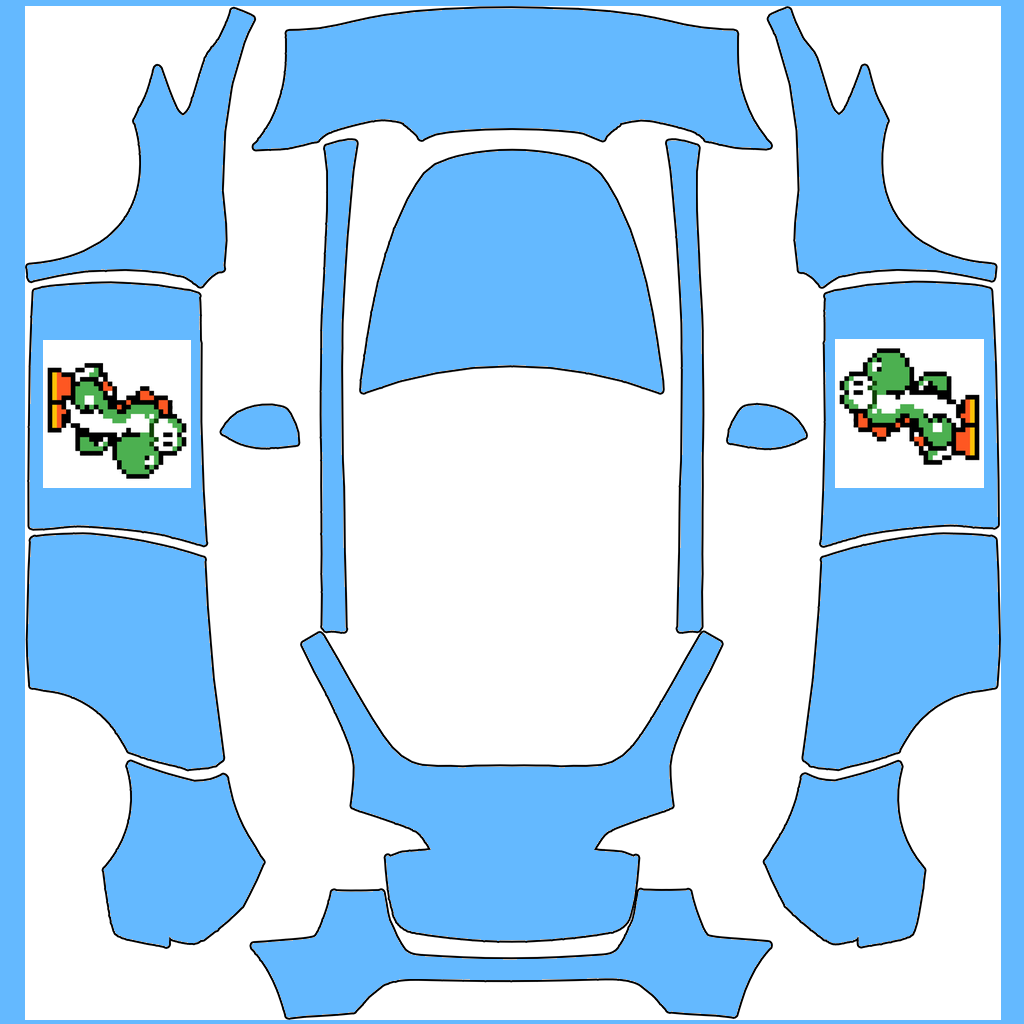
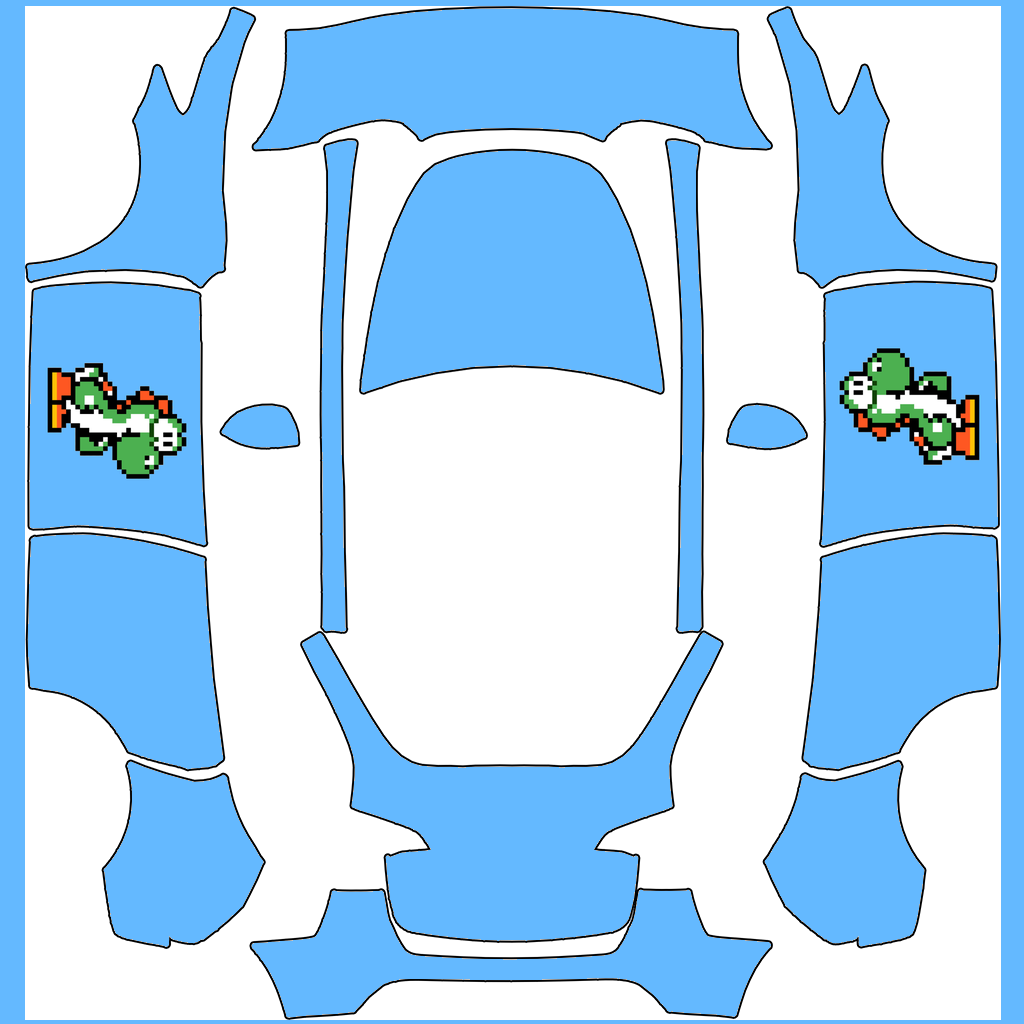
Use sky blue background on Yoshi sprites, seamless blend with wrap
Generated sky_yoshi_*.png variants with white background flood-filled
to sky blue so Yoshi composites seamlessly onto the car panels.

Changed region(s): [[0.0312, 0.3125, 0.1875, 0.5], [0.8125, 0.3125, 0.9688, 0.5]]

diff --git a/place_yoshi.py b/place_yoshi.py
@@ -14,8 +14,8 @@ import numpy as np
 TEMPLATE_PATH  = "template.png"
 OUTPUT_PATH    = "outputs/yoshi_doors.png"
 SKY_BLUE       = (100, 185, 255, 255)
-LEFT_YOSHI     = "raw/yoshi_90.png"
-RIGHT_YOSHI    = "raw/yoshi_270.png"
+LEFT_YOSHI     = "raw/sky_yoshi_90.png"
+RIGHT_YOSHI    = "raw/sky_yoshi_270.png"
 
 # Bounding boxes of the front door panels only (driver + front passenger)
 # detected from the template's connected white regions
